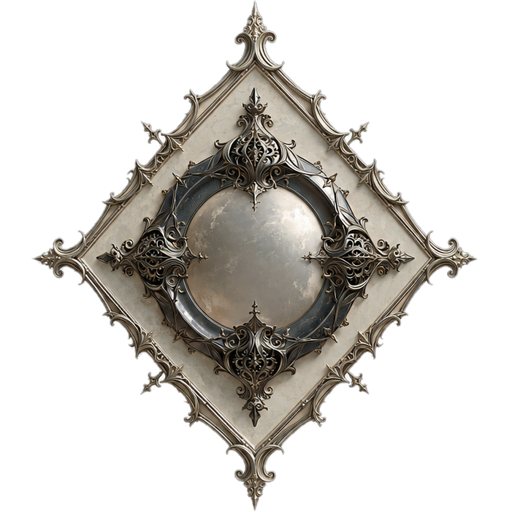
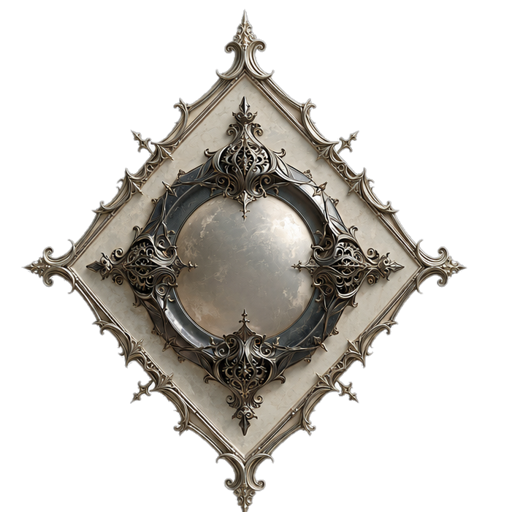
Relic emblems: centre the glyph in the socket
Two fixes so the glyph sits dead-centre in each diamond's socket. (1) Re-centred all
three frame PNGs on their actual pearl socket using a largest-bright-blob detector —
the previous centroid pass was pulled off by the star frame's bright silver arms, so
Wildcard's gem sat left of centre. (2) Scaled the relic glyph down to match the
smaller relic gem (30% vs the round 37%), keeping the glyph:gem ratio — and thus the
measured em offsets — consistent with the common charms, so the glyph fits the socket
instead of overflowing it. Verified every relic against a centred crosshair.

Claude-Session: https://claude.ai/code/session_01JbsNTb2Jvjps6CqMJRSas3

Changed region(s): [[0.0312, 0.0, 0.9375, 1.0]]

diff --git a/style.css b/style.css
@@ -1488,9 +1488,14 @@ body[data-deal="house"] .hand .cicon { width: 46px; height: 46px; padding: 5px; 
 /* Relic (boss-trophy) emblems wear an ornate diamond bezel instead of the round
    medallion; the category gem seats in the diamond's central socket (smaller than
    the round frame's). Wildcard gets its own distinct diamond. */
-.charmemblem.ce-relic .ce-frame { background-image: url('assets/charms/relic-frame.png?v=1'); }
-.charmemblem.ce-relic.ce-relic-wild .ce-frame { background-image: url('assets/charms/relic-frame-wild.png?v=1'); }
+.charmemblem.ce-relic .ce-frame { background-image: url('assets/charms/relic-frame.png?v=2'); }
+.charmemblem.ce-relic.ce-relic-wild .ce-frame { background-image: url('assets/charms/relic-frame-wild.png?v=2'); }
 .charmemblem.ce-relic .ce-gem { width: 30%; height: 30%; }
+/* The relic socket is smaller than the round gem, so scale the glyph to match
+   (keeps the glyph:gem ratio, and its em offsets, consistent with common charms). */
+.charmemblem.ce-relic .ce-g { font-size: 12px; }
+.charmemblem.ce-relic.ce-lg .ce-g { font-size: 18px; }
+.charmemblem.ce-relic.ce-sm .ce-g { font-size: 9px; }
 .deckdock { display: flex; align-items: center; justify-content: center; gap: 16px; margin: 2px 0 4px; }
 .deckdot { width: 54px; height: 54px; border-radius: 11px; border: 2px solid var(--gold-dim); background-size: cover; background-position: center top;
   cursor: pointer; opacity: 0.6; transition: opacity 0.14s ease, transform 0.14s ease, border-color 0.14s ease; }

diff --git a/index.html b/index.html
@@ -6,7 +6,7 @@
 <title>Stonelock — A Game of Regional Leverage</title>
 <link rel="preconnect" href="https://fonts.googleapis.com">
 <link href="https://fonts.googleapis.com/css2?family=Cinzel:wght@500;600;700&family=Alegreya:ital,wght@0,400;0,500;0,600;0,700;1,400;1,500&display=swap" rel="stylesheet">
-<link rel="stylesheet" href="style.css?v=315">
+<link rel="stylesheet" href="style.css?v=316">
 </head>
 <body>
 
